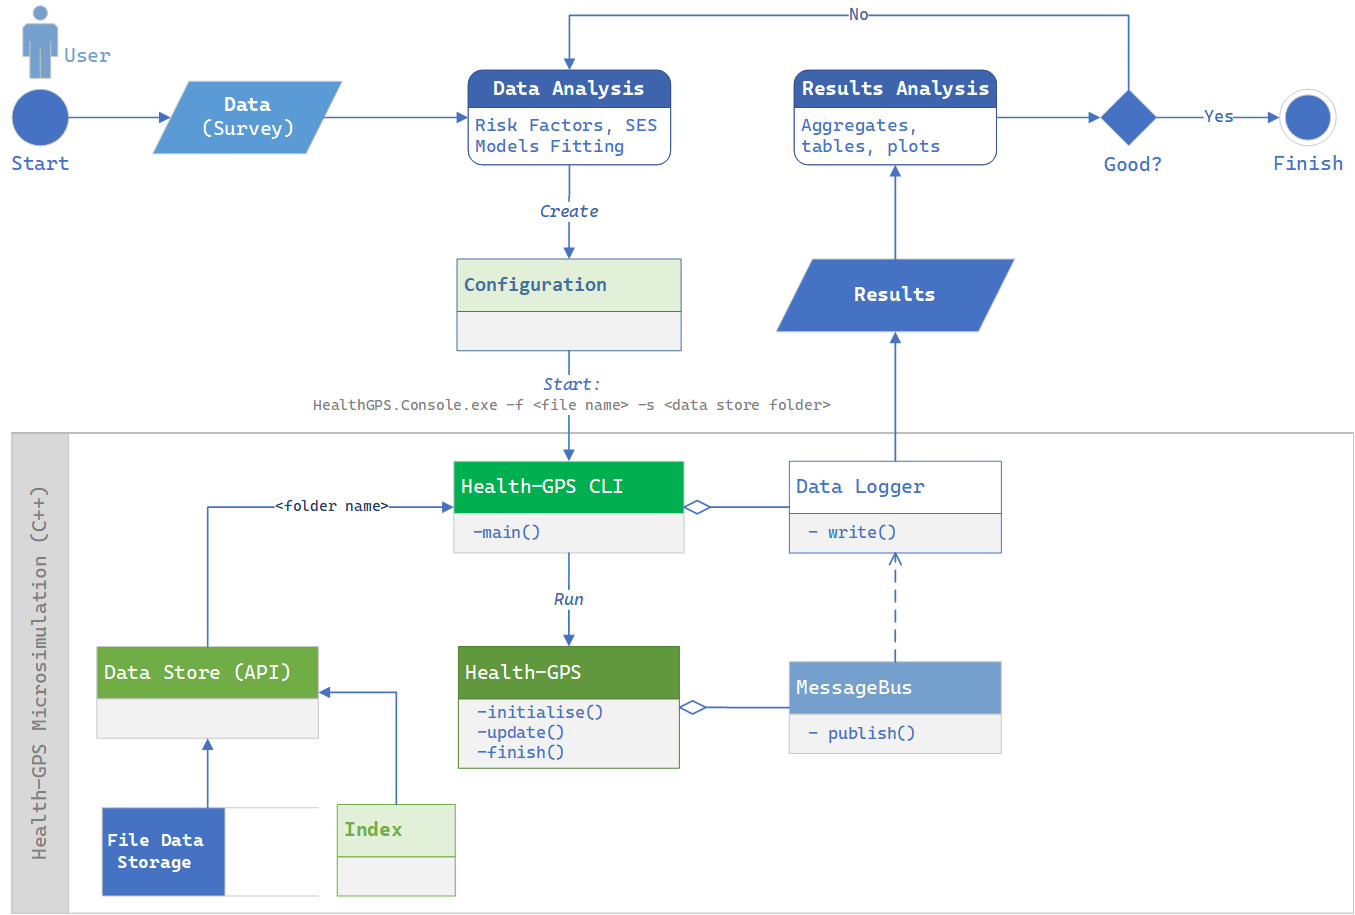
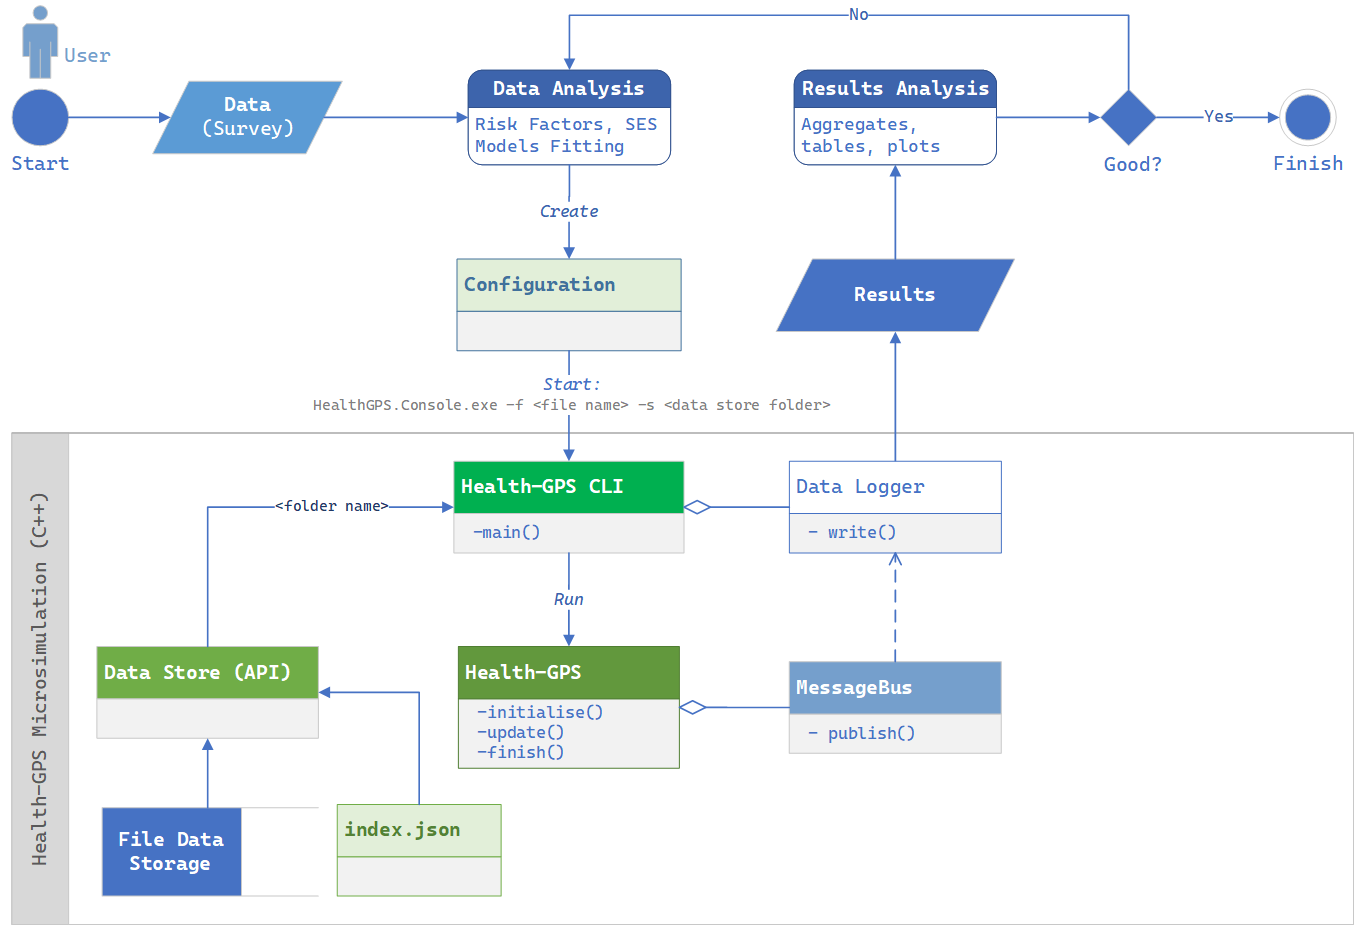
Updated user guide and data model content.

diff --git a/userguide.md b/userguide.md
@@ -4,17 +4,21 @@
 
 
 # User Guide
-The *Health-GPS* microsimulation is a data driven modelling framework, combining many disconnected data sources to support the various interacting modules during a typical simulation experiment run. The framework provides a pre-populated backend data storage to minimise the learning curve for simple use cases, however advance users are likely to need a more in-depth knowledge of the full workflows. A high-level representation of the *Health-GPS workflow* is shown below, it is crucial that users have a good appreciation for the general dataflow and processes to better design experiments and quantify the results.
+
+The *Health-GPS* microsimulation is a data driven modelling framework, combining many disconnected data sources to support the various interacting modules during a typical simulation experiment run. The framework provides a pre-populated backend data storage to minimise the learning curve for simple use cases, however advance users are likely to need a more in-depth knowledge of the full workflows. A high-level representation of the microsimulation user workflow is shown below, it is crucial for users to have a good appreciation for the general dataflows and processes to better design experiments, configure the tool, and quantify the results.
 
 |![Health GPS Workflow](/assets/image/workflow_diagram.png)|
 |:--:|
 |*Health GPS Workflow Diagram*|
 
-As with any simulation model, it is the user's responsibility to process and analyse input data, define the model’s hierarchy, and fit parameters to data. A configuration file (JSON) is used control the simulation running settings and map the *Health-GPS* expected parameters to the user input data and fitted values. Likewise, it is the user's responsibility to and analyse and quantify the model results, which are saved to a chosen output folder in `JSON` format.
+As with any simulation model, it is the user's responsibility to process and analyse input data, define the model’s hierarchy, and fit parameters to data. A [configuration][configjson] file (`JSON` format) is used to control the simulation running settings, experiment country, virtual population size, map internal parameters to user's input data and external fitted models, define intervention scenario, and output file location. Likewise, it is the user's responsibility to analyse and quantify the model results, which are saved to the  chosen output folder in a `JSON` format.
 
-|![Health GPS Execution](/assets/image/model_runner_activity.png)|
-|:--:|
-|*Health GPS Execution Diagram*|
+> See [Quick Start](getstarted) to get started using the microsimulation on your platform.
+
+The *file data storage* provides a reusable, reference dataset in the model's [standardised](datamodel) format for improved usability, the dataset can easily be expanded with new data sources. The [index.json][datastore] file defines the storage structure, file names, diseases definition, metadata to identify the data sources and respective limits for consistency validation.
+
+
+
 
 ---
 > **_UNDER DEVELOPMENT:_**  More content coming soon.
@@ -38,4 +42,7 @@ https://github.com/imperialCHEPI/healthgps/blob/main/source/HealthGPS.Console/pr
     ...
 ```
 
+[comment]: # (References)
+[configjson]:https://github.com/imperialCHEPI/healthgps/blob/main/example/France.Config.json "Configuration file example"
 
+[datastore]:https://github.com/imperialCHEPI/healthgps/blob/main/data/index.json "Backend file based data store index file"

diff --git a/datamodel.md b/datamodel.md
@@ -1,12 +1,27 @@
 ## Global Health Policy Simulation model
 
 | [Home](index) | [Quick Start](getstarted) | [User Guide](userguide) | [Software Architecture](architecture) | Data Model | [Developer Guide](development) |
+
 # Data Model
+
+The backend *data model* defines an abstract model to organises data entities and how they relate to one another in a standardised schema and format to be used within the Health GPS systems. The backend storage provides a reference dataset that reconcile various disparate data sources required by the model, fill gaps, adjust units, etc, for easy use. The standardised format allows the reference dataset to be easily expanded to accommodate new and non-traditional data sources.
+
+The data model is storage agnostic, the [Data API][dataapi] abstraction interface shown below, provides a contract for the minimum dataset, easy access, strong typing, and decoupling from the backend storage implementation. 
+
+|![Health GPS Data API](/assets/image/data_api.png) "Health GPS Data API"|
+|:--:|
+|*Backend Data API Interface*|
+
+The data model defines the minimum dataset required by the model, the backend storage can hold more data to support external analysis for example. The backend minimum dataset diagram is shown below, indexed by country, green, entities representing demographics are gray, diseases are blue, analysis are red, and enumeration types are yellow respectively.
 
 |![Health GPS Data Model](/assets/image/data_model.png)|
 |:--:|
-|*Backend Storage Data Model*|
+|*Data Model Entity-Relation Diagram*|
+
+
 
 ---
 > **_UNDER DEVELOPMENT:_**  More content coming soon.
 ---
+
+[dataapi]: https://github.com/imperialCHEPI/healthgps/blob/main/source/HealthGPS.Core/datastore.h "Health GPS Data API definition."

diff --git a/getstarted.md b/getstarted.md
@@ -4,7 +4,7 @@
 
 # Quick Start
 
-The **Health GPS** application provides a command line interface (CLI) and runs on *Windows 10 (and newer)* and *Linux* devices. All supported options are provided to the model via a *configuration file* (JSON format), including population size, intervention scenarios and number of runs. Users are encouraged to start exploring the model by using the included example dataset, changing the provided configuration file, and running the model.
+The **Health GPS** application provides a command line interface (CLI) and runs on *Windows 10 (and newer)* and *Linux* devices. All supported options are provided to the model via a [configuration][configjson] file (JSON format), including population size, intervention scenarios and number of runs. Users are encouraged to start exploring the model by using the included example dataset, changing the provided configuration file, and running the model.
 
 Although the model source code is portable, binaries must be generated for each platforms using respective tools and libraries. The Health GPS repository provides `x64` binaries for `Windows` and `Linux` Operating Systems (OS) with very specific runtime requirements.
 
@@ -93,3 +93,6 @@ show(p)
 |*Experiment BMI projection example*|
 
 In a similar manner, the resulting dataset `df`, can be re-created and expanded to summarise other variables of interest, create results tables and plots to better understand the experiment.
+
+[comment]: # (References)
+[configjson]:https://github.com/imperialCHEPI/healthgps/blob/main/example/France.Config.json "Configuration file example"
